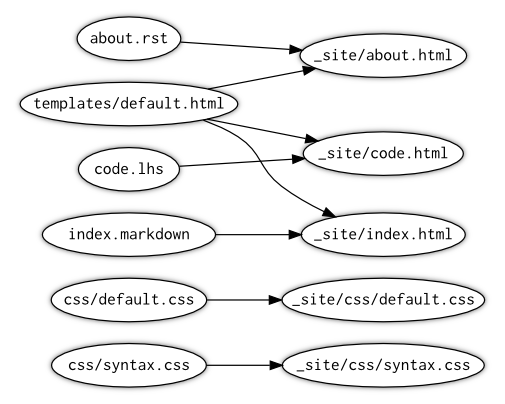
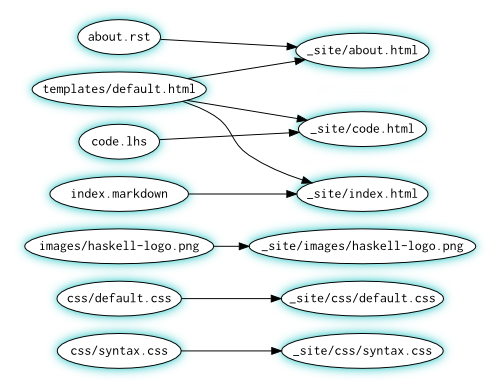
Wrote on tutorial

Changed region(s): [[0.03, 0.0309, 0.96, 0.9897]]

diff --git a/brochure/css/default.css b/brochure/css/default.css
@@ -15,3 +15,13 @@ div#navigation a {
     padding: 3px 10px 3px 10px;
     margin: 0px 10px 0px 10px;
 }
+
+div.figure {
+    float: right;
+    margin: 20px 0px 20px 20px;
+}
+
+div.figure p.caption {
+    text-align: center;
+    font-style: italic;
+}
